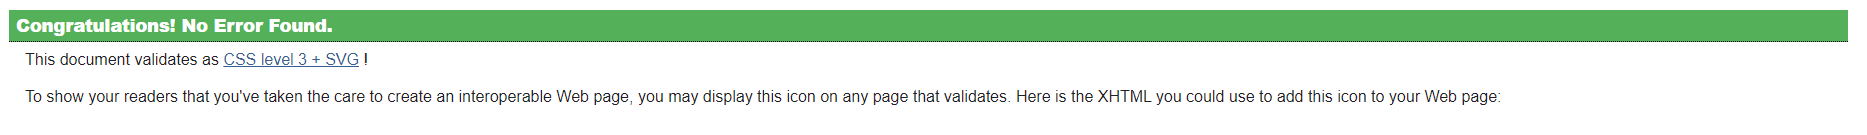
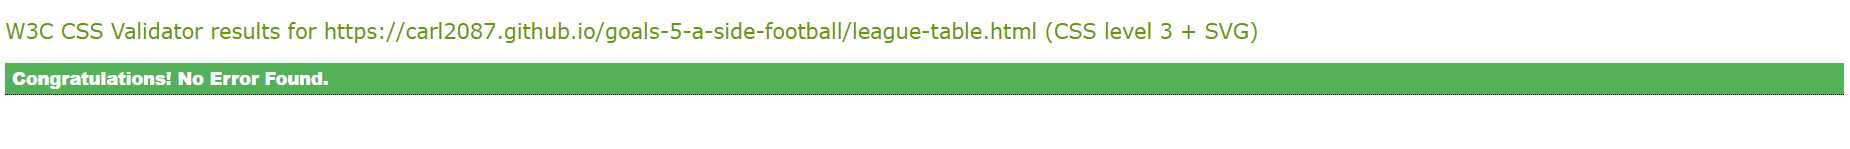
added css validated images with descriptions to readme file

diff --git a/README.md b/README.md
@@ -65,6 +65,7 @@ The primary goal of the website is to get people from all walks of life to sign 
   * Video highlights be added directly to website.
   * Bigger variety of football leagues.
   * Ability to pay on site for bookings.
+  * Google maps added to the site to make finding the company easier.
 
 ## Wireframes 
 
@@ -96,7 +97,35 @@ The primary goal of the website is to get people from all walks of life to sign 
 
   * The wireframe for an iphone to see the site on a mobile device.
 
-  ![wireframe image of the website on an iphone](./assets/images/iphone%20-wireframe.png)
+  ![wireframe image of the website on an iphone](./assets/images/iphone-wireframe.png)
+
+## Design choices
+
+   I decided to keep to a theme of green font and foreground colours on a white background as green is the colour of football pitches. This also keep a clear continuity with the theme throughout the site so that navigation can be very easy to learn and becomes familiar quickly. I also wanted to not have too many elements on each page as well to help the user of the site navigate and not be distracted unnecessarily.
+
+## Testing
+  
+I tested the site using the jigsaw css validater and the W3C html validater. All errors that were reported in the code have been fixed with pictures of the results below.
+
+  * CSS validated home page
+
+  ![image of the landing page validated css code](./assets/images/css-validated-index-page.png)
+
+  * CSS validated league tables page
+
+  ![image of the landing page validated css code](./assets/images/css-validated-league-table-page.png)
+
+  * CSS validated gallery page
+
+  ![image of the landing page validated css code](./assets/images/css-validated-gallery-page.png)
+
+  * CSS validated book with us page
+
+  ![image of the landing page validated css code](./assets/images/css-validated-book-with-us-page.png)
+  
+
+
+
 
 
 
